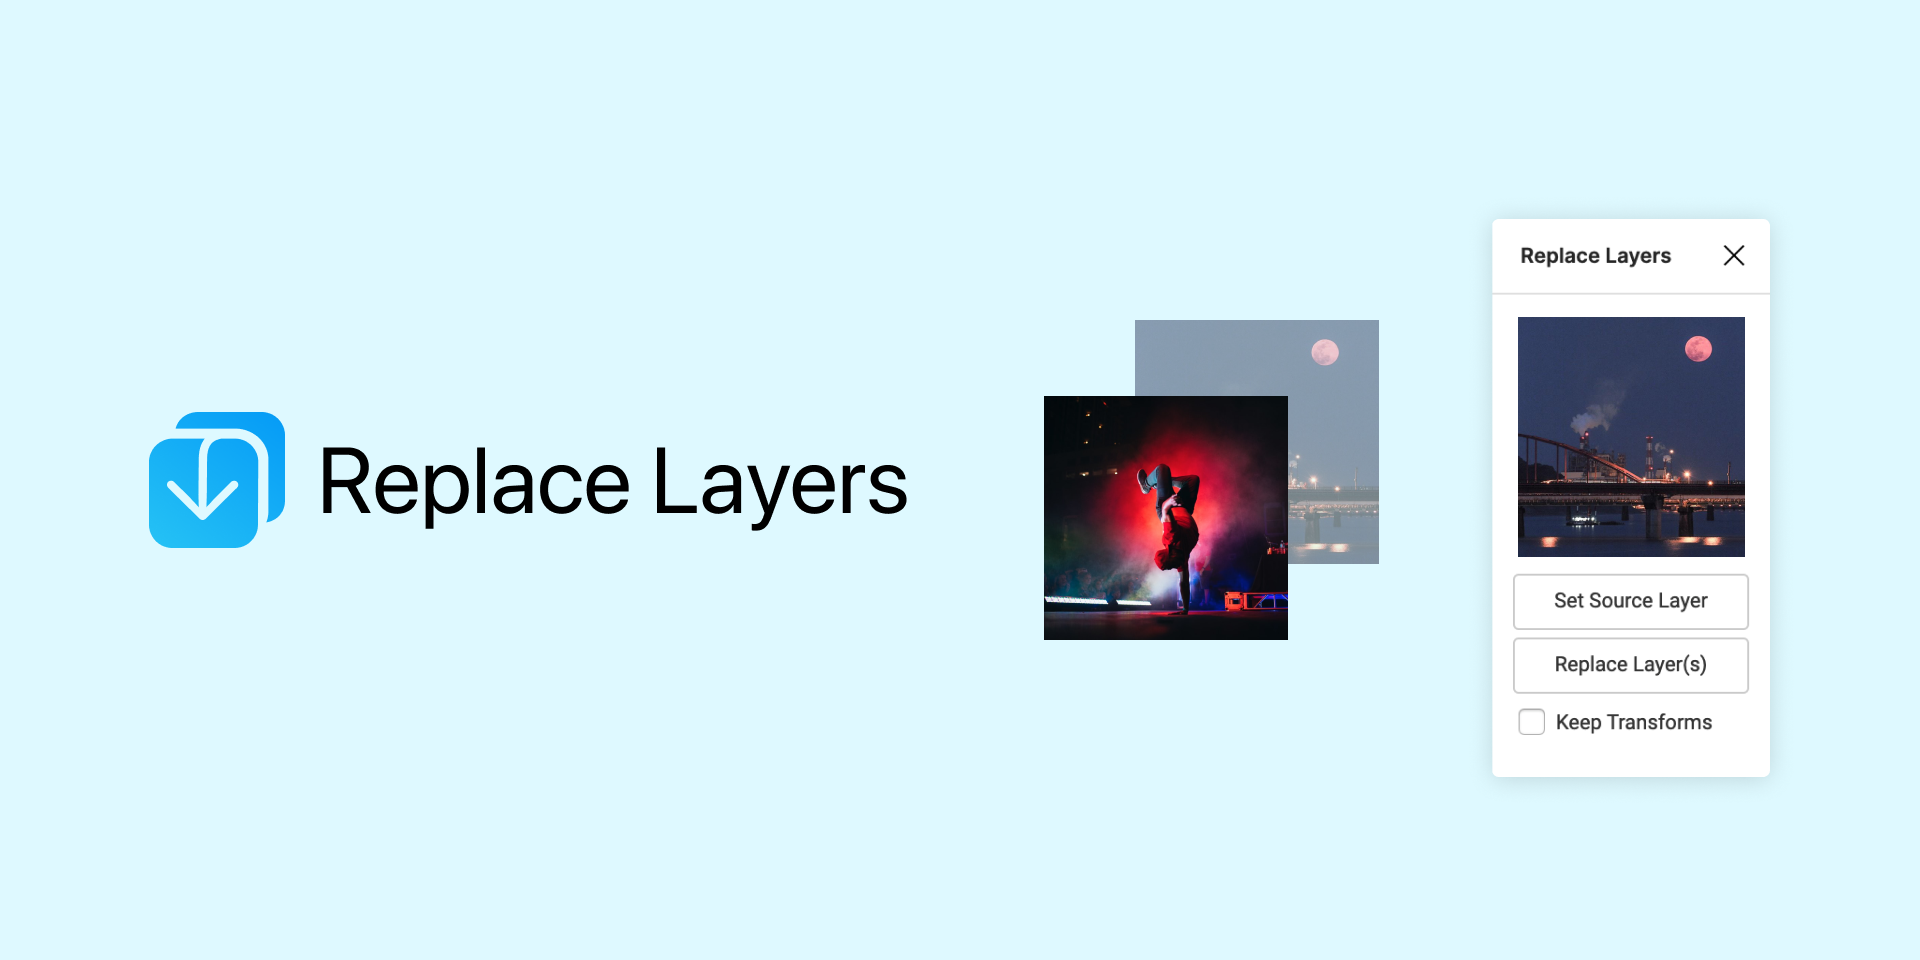
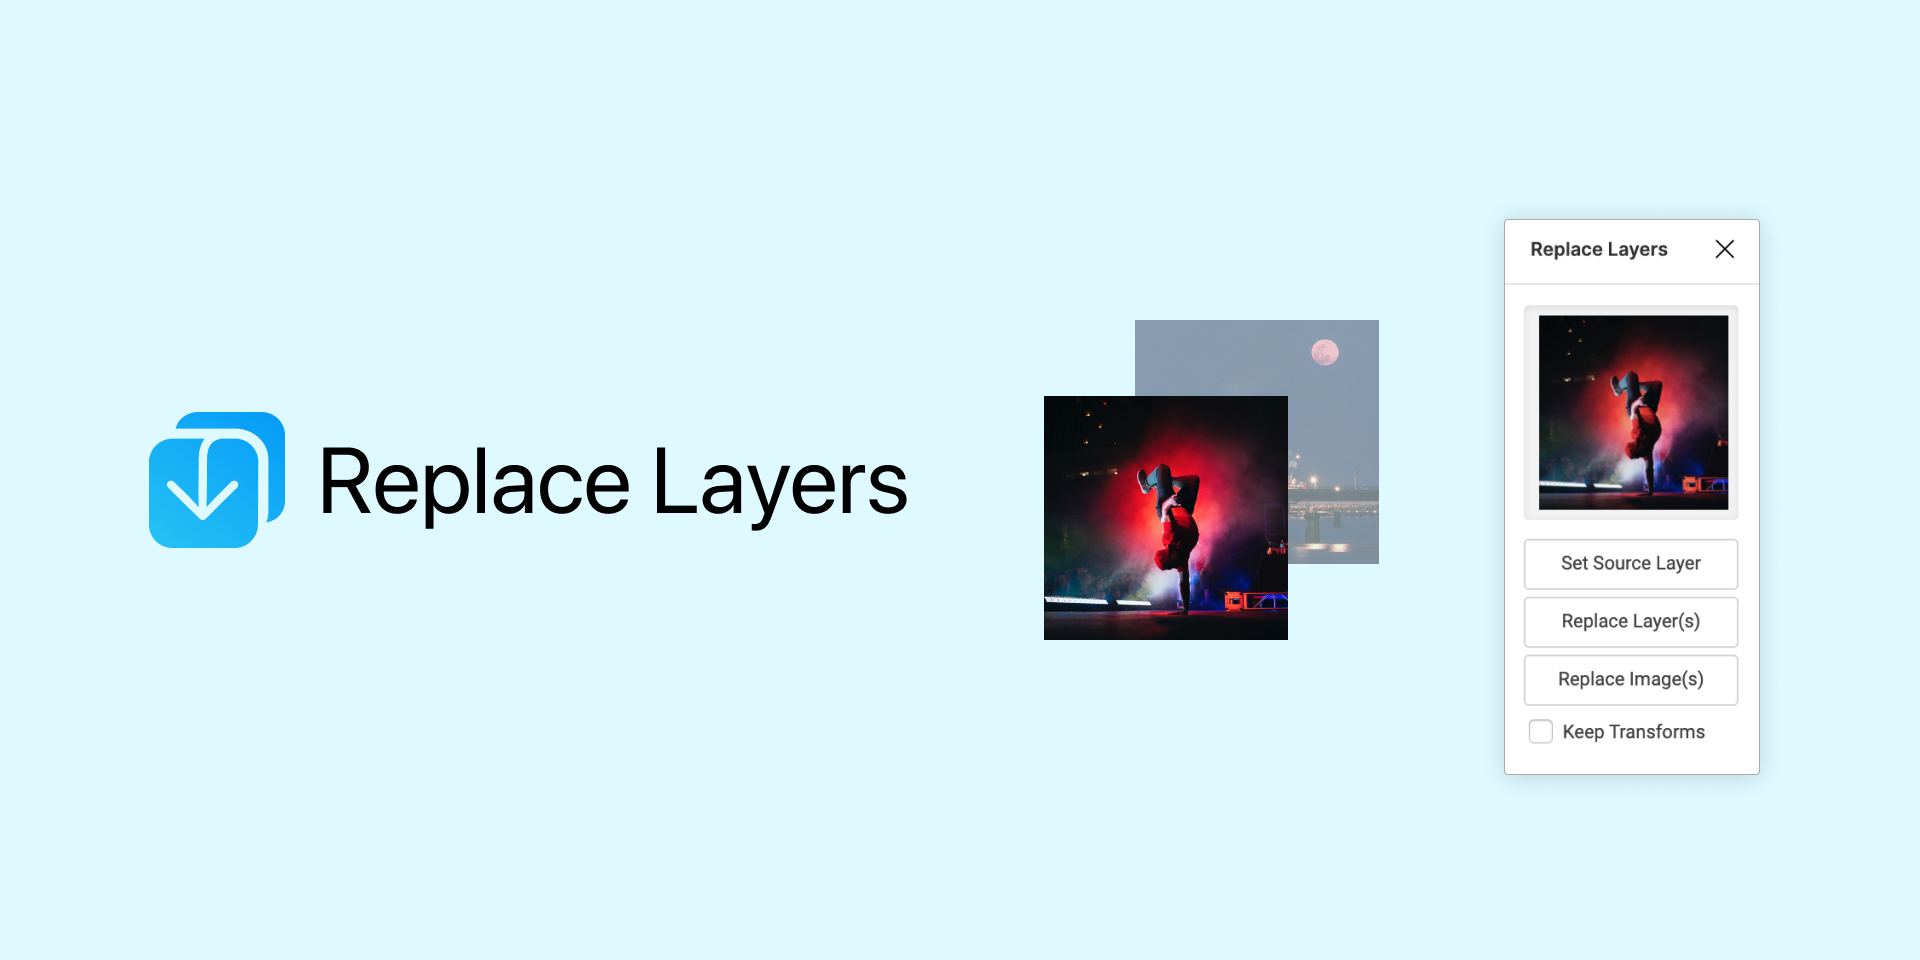
update for release

Changed region(s): [[0.75, 0.2188, 0.9375, 0.8125]]

diff --git a/ui.html b/ui.html
@@ -193,8 +193,8 @@
 <p class="actions">
     <button id="setLayer" class="action">Set Source Layer</button>
     <button id="replaceLayers" class="replaceLayers action">Replace Layer(s)</button>
-    <button id="replaceFill" class="replaceImageFill action">Replace Image(s)</button>
-    
+    <button id="replaceImageFill" class="replaceImageFill action">Replace Image(s)</button>
+
     <label for="preserveTransforms"
         title="Preserve rotation and scale (scale is preserved for component instances only)."><input class="action"
             type="checkbox" checked class="transforms" id="preserveTransforms">Keep Transforms</label>

diff --git a/code.ts b/code.ts
@@ -147,6 +147,7 @@ function preserveTransforms(preserve: boolean) {
 }
 
 function replaceFill() {
+  console.log('replacing fill');
   let lastId = figma.root.getPluginData("lastId");
   let sourceNode = figma.getNodeById(lastId);
   let badCount = 0;
@@ -226,6 +227,7 @@ figma.ui.onmessage = (message) => {
       replaceLayers();
       break;
     case "replaceImageFill":
+      
       replaceFill();
       break;
     case "preserveTransforms":

diff --git a/code.js b/code.js
@@ -154,6 +154,7 @@ function preserveTransforms(preserve) {
     _preserve = preserve;
 }
 function replaceFill() {
+    console.log('replacing fill');
     let lastId = figma.root.getPluginData("lastId");
     let sourceNode = figma.getNodeById(lastId);
     let badCount = 0;
